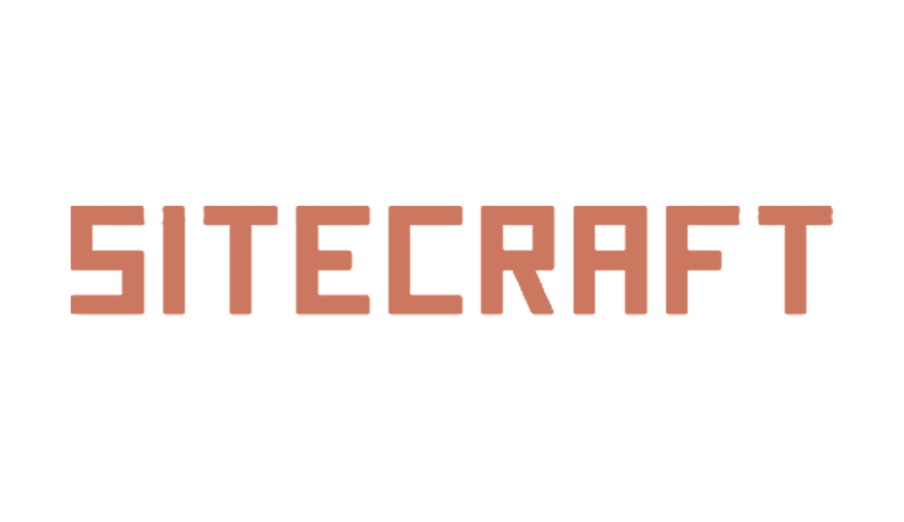
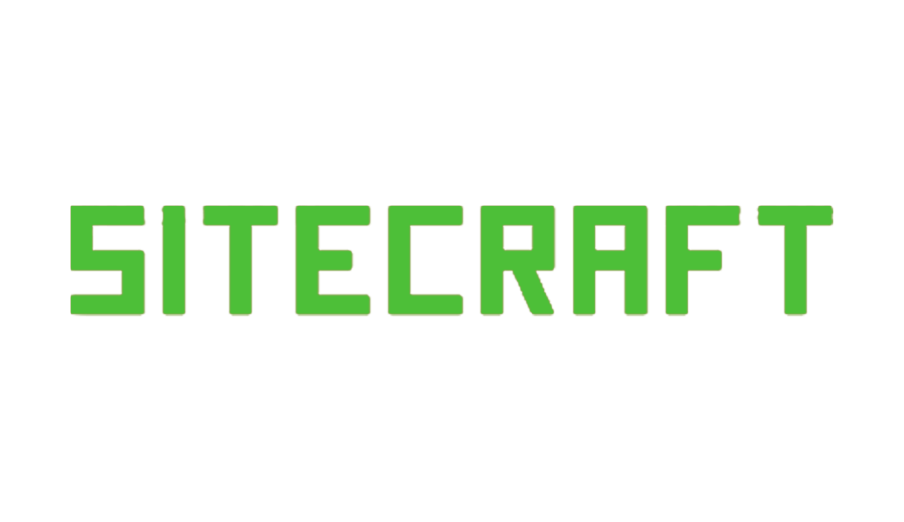
reports integration

Changed region(s): [[0.0619, 0.3678, 0.9292, 0.613]]

diff --git a/backend/src/main/resources/report-template/report.html b/backend/src/main/resources/report-template/report.html
@@ -12,57 +12,65 @@
   <style>
     @page { size: auto; margin: 0; }
     html, body { margin: 0; padding: 0; }
-    .bg-logo-left-nav { background-color: #263238; }
-    .border-logo-border { border-color: #cc78604d; }
-    .text-logo-txt { color: #cc7860f2; }
-    .hover\:bg-logo-light-button-hover:hover { background-color: #cc78601a; }
+    .bg-logo-left-nav { background-color: #052a47; }
+    .border-logo-border { border-color: #4CC63D; }
+    .text-logo-txt { color: #4CC63D; }
+    .table-header { background-color: #F3F4F6; }
+    .hover\:bg-logo-light-button-hover:hover { background-color: #E6F9E6; }
+    .min-h-navbar { min-height: 44px; }
+    .table-cell-main { color: #222; }
+    .table-cell-secondary { color: #555; }
+    /* Custom row divider color */
+    .custom-table tr:not(:last-child) td {
+      border-bottom: 0.5px solid #4CC63D !important;
+    }
   </style>
 </head>
 <body class="bg-gray-100">
 
   <!-- Top nav: logo only, flush left -->
-  <nav class="bg-logo-left-nav flex items-center" style="height:44px; padding-left:24px;">
+  <nav class="bg-logo-left-nav flex items-center min-h-navbar" style="padding-left:24px; background-color:#052a47;">
     <img
       src="font.png"
       alt="SiteCraft Logo"
-      style="height:100%;"/>
+      style="height:36px; width:auto; display:block;"/>
   </nav>
 
   <!-- Main wrapper -->
   <div class="container mx-auto mx-6 mt-6">
 
-    <!-- Card: table + insights -->
+    <!-- Card: table + insights (single container) -->
     <div class="bg-white rounded-lg shadow border border-logo-border overflow-hidden">
 
       <!-- Table section -->
-      <div class="overflow-x-auto p-6">
-        <h1 class="text-2xl font-bold text-center mb-2" th:text="${reportName}"></h1>
+      <div class="overflow-x-auto p-6 pb-2">
+        <h1 class="text-2xl font-bold text-center mb-2 text-black" th:text="${reportName}"></h1>
         <h2 class="text-lg text-gray-600 text-center mb-6" th:text="${reportDescription}"></h2>
-        <table class="min-w-full table-fixed divide-y divide-logo-border border border-logo-border">
-          <thead class="bg-gray-200">
+        <table class="custom-table min-w-full table-fixed border border-logo-border rounded-lg" style="border-width: 0.5px;">
+          <thead class="table-header">
             <tr>
               <th
                 th:each="col : ${columns}"
                 th:text="${col}"
-                class="px-4 py-2 text-center text-xs font-semibold uppercase text-logo-txt">
+                class="px-3 md:px-6 py-3 text-center text-xs font-medium text-logo-txt uppercase tracking-wider border-b border-logo-border" style="border-bottom-width: 0.5px;">
               </th>
             </tr>
           </thead>
-          <tbody class="bg-white divide-y divide-logo-border">
+          <tbody class="bg-white divide-y divide-logo-border" style="border-color: #4CC63D; border-width: 0.5px;">
             <tr th:each="row : ${rows}" class="hover:bg-logo-light-button-hover">
               <td
                 th:each="cell : ${row}"
                 th:text="${cell}"
-                class="px-4 py-2 text-center text-sm text-gray-900">
+                class="px-3 md:px-6 py-4 text-center text-sm table-cell-main">
               </td>
             </tr>
           </tbody>
         </table>
       </div>
 
-      <!-- Insights & Recommendations section -->
-      <div class="bg-white p-6 border-t border-logo-border">
-        <h3 class="text-xl font-bold mb-4 text-gray-800">Insights &amp; Recommendations</h3>
+      <!-- Insights & Recommendations section (no border-top, same card) -->
+      <div class="bg-white p-6 pt-2">
+        <h3 class="text-xl font-bold mb-4 text-black">Insights &amp; Recommendations</h3>
         <!-- iterate the list built in Java -->
         <div th:each="line : ${reportInsightsList}">
           <p class="text-base text-gray-700 mb-2">

diff --git a/backend/src/main/java/com/sitecraft/backend/Controllers/ReportController.java b/backend/src/main/java/com/sitecraft/backend/Controllers/ReportController.java
@@ -17,6 +17,7 @@ import java.time.LocalDateTime;
 import java.time.LocalTime;
 import java.util.*;
 
+@CrossOrigin(origins = {"http://localhost:3000", "http://127.0.0.1:3000"}, allowCredentials = "true")
 @RestController
 @RequestMapping("/reports")
 public class ReportController {
